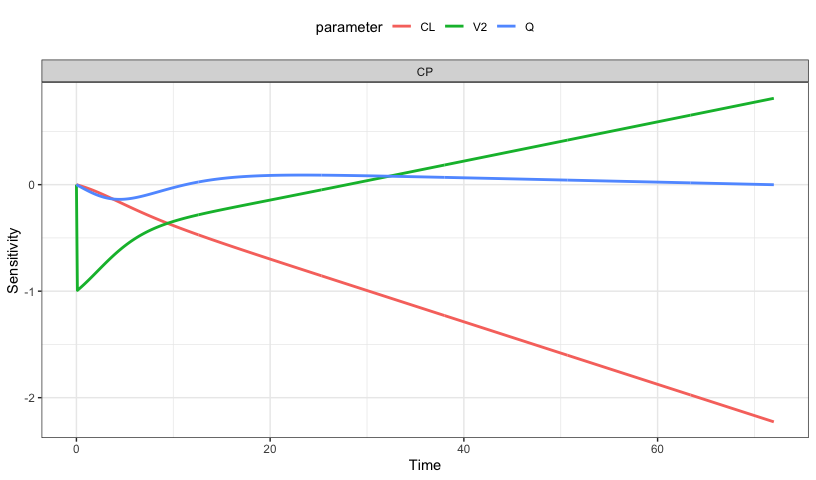
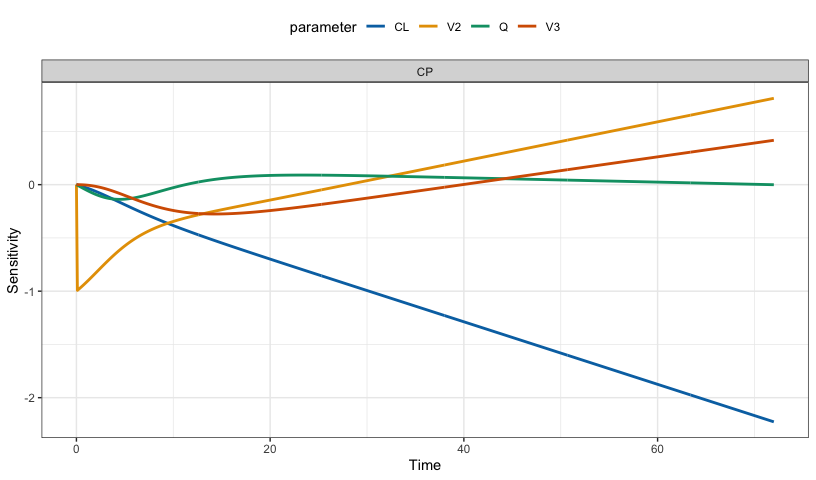
refactor lsa plot

diff --git a/README.md b/README.md
@@ -85,7 +85,7 @@ sens_plot(out, "CP", grid = TRUE)
 
 ## HIV viral dynamic model
 
-In another exampple, we look at latent infected cell pool development
+In another example, we look at latent infected cell pool development
 over ten years at different “burst” size, or the number of HIV particles
 released when one cell lyses.
 
@@ -169,23 +169,20 @@ varying “sensitivity” values.
 
 In local sensitivity analysis, we vary each sensitivity parameter a very
 small amount around the parameter list (model) value and see how much
-the output changes.
+the output changes for a unit change in the parameter. The “sensitivity”
+is plotted over time.
 
 ``` r
 mod <- modlib("pk2", delta = 0.1, end = 72)
-```
 
-    . Building pk2 ... done.
-
-``` r
 doses <- ev(amt = 100)
 
-out <- lsa(mod, var = "CP", par = "CL,V2,Q", events = doses)
+out <- lsa(mod, var = "CP", par = "CL,V2,Q,V3", events = doses)
 
 out
 ```
 
-    . # A tibble: 2,166 × 5
+    . # A tibble: 2,888 × 5
     .    time dv_name dv_value p_name     sens
     .   <dbl> <chr>      <dbl> <chr>     <dbl>
     . 1   0   CP         0     CL      0      
@@ -193,18 +190,10 @@ out
     . 3   0.1 CP         0.472 CL     -0.00254
     . 4   0.2 CP         0.893 CL     -0.00514
     . 5   0.3 CP         1.27  CL     -0.00782
-    . # ℹ 2,161 more rows
+    . # ℹ 2,883 more rows
 
 ``` r
-lsa_plot(out, pal = NULL)
+lsa_plot(out)
 ```
-
-    . Warning: `aes_string()` was deprecated in ggplot2 3.0.0.
-    . ℹ Please use tidy evaluation idioms with `aes()`.
-    . ℹ See also `vignette("ggplot2-in-packages")` for more information.
-    . ℹ The deprecated feature was likely used in the mrgsim.sa package.
-    .   Please report the issue at <https://github.com/kylebaron/mrgsim.sa/issues>.
-    . This warning is displayed once per session.
-    . Call `lifecycle::last_lifecycle_warnings()` to see where this warning was generated.
 
 ![](man/figures/README-unnamed-chunk-10-1.png)<!-- -->
